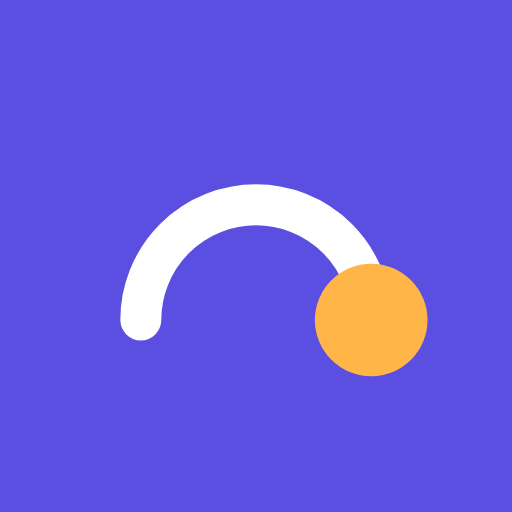
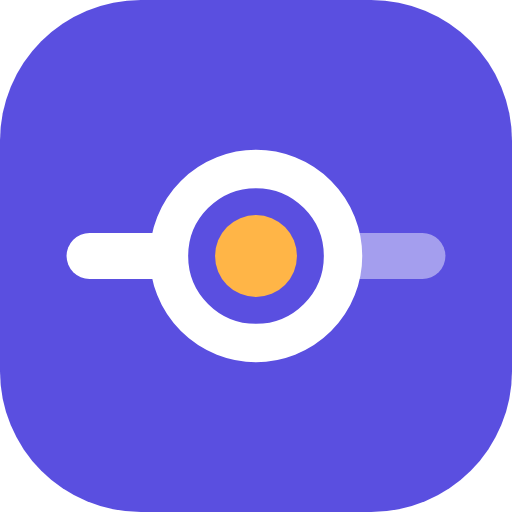
feat(brand): redesign the 一站 mark as a station on one line
The mark now reads its name: one line (一) runs through one station (站),
solid behind and faint ahead, with the amber centre for the person's turn.
Replaced everywhere it appears: the BrandMark component (sidebar, login,
loading), favicon.svg, the 192/512 PWA icons, and the iPhone touch icon,
now full-bleed so iOS rounds it without dark corners. Adds a maskable
512 icon for Android home screens.

Claude-Session: https://claude.ai/code/session_01Jq2A3eN3y82QusY1eoBnS2

diff --git a/src/web/src/components/Brand.tsx b/src/web/src/components/Brand.tsx
@@ -1,13 +1,18 @@
 /**
- * 一站's mark: an arc handing an amber dot on — the AI (indigo) and the person
- * (amber) passing work between them, which is what every screen is about.
+ * 一站's mark: a transit-map station. One line (一) runs through one station (站);
+ * the stretch already travelled is solid, the stretch ahead is faint, and the
+ * station's amber centre is the person's turn — work arrives, and you are called
+ * when it is yours. Keep in step with public/favicon.svg and the PNG icons.
  */
 export function BrandMark({ size = 28 }: { size?: number }) {
+  const tile = "var(--brand-tile, #5a4fe0)";
   return (
     <svg className="brand-mark" width={size} height={size} viewBox="0 0 40 40" aria-hidden="true">
-      <rect width="40" height="40" rx="11" fill="var(--brand-tile, #5a4fe0)" />
-      <path d="M11 25a9 9 0 0 1 18 0" fill="none" stroke="#fff" strokeWidth="3.2" strokeLinecap="round" />
-      <circle cx="29" cy="25" r="4.4" fill="#ffb547" />
+      <rect width="40" height="40" rx="11" fill={tile} />
+      <path d="M7 20H20" stroke="#fff" strokeWidth="3.6" strokeLinecap="round" />
+      <path d="M20 20h13" stroke="#fff" strokeOpacity=".45" strokeWidth="3.6" strokeLinecap="round" />
+      <circle cx="20" cy="20" r="6.8" fill={tile} stroke="#fff" strokeWidth="3" />
+      <circle cx="20" cy="20" r="3.2" fill="#ffb547" />
     </svg>
   );
 }

diff --git a/AGENTS.md b/AGENTS.md
@@ -13,7 +13,7 @@
 `personal-agent-workspace` / `-codex` / `-browser`、SQLite 文件名 `personal-agent.sqlite`、
 cookie 名 `pa_*` 与 `PA_*` 前缀**保持不变**——它们承载既有容器、卷、数据库与登录状态，改名会
 丢数据或中断服务。health `service` 字段与 Codex `clientInfo.name` 的旧值仅为兼容已有集成保留，
-不是品牌。品牌层为 **一站**（英文 AIO Agent）：页面标题、侧栏、登录页与图标用“一站”，包名与文档仍称 AIO Agent。配色语义：靛紫 = AI 在办（也是品牌主色），琥珀 = 轮到你（全站唯一醒目色），松绿 = 办完，朱红 = 出错；令牌定义在 `src/web/src/styles.css` 顶部，新界面只用这些令牌，不写死颜色。
+不是品牌。品牌层为 **一站**（英文 AIO Agent）：页面标题、侧栏、登录页与图标用“一站”，包名与文档仍称 AIO Agent。标志是线路图上的一站：一条线（一）穿过一个站点（站），走过的一段实、前方的一段淡，琥珀色站心表示轮到你；`src/web/src/components/Brand.tsx` 与 `src/web/public/` 下的 favicon、PNG 图标、manifest 必须同步修改。配色语义：靛紫 = AI 在办（也是品牌主色），琥珀 = 轮到你（全站唯一醒目色），松绿 = 办完，朱红 = 出错；令牌定义在 `src/web/src/styles.css` 顶部，新界面只用这些令牌，不写死颜色。
 
 ## 目录与职责
 
